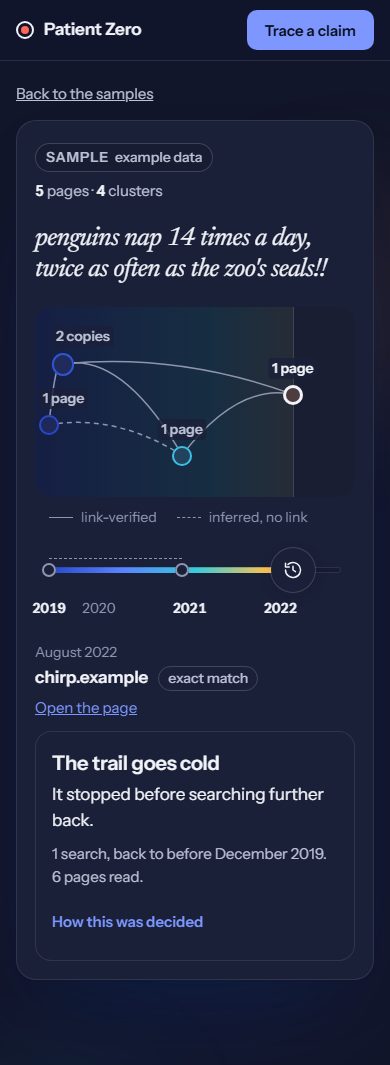
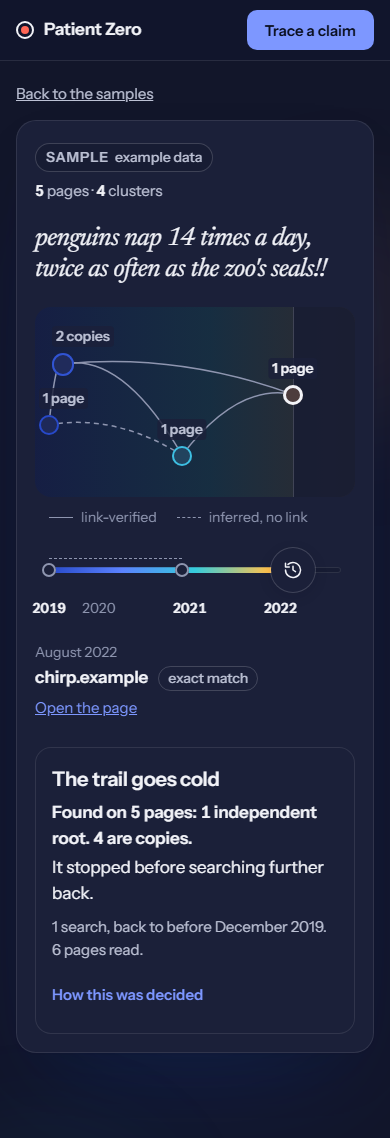
Lead the stop card with the independence count from pz/headline

diff --git a/apps/web/src/model/stopCard.ts b/apps/web/src/model/stopCard.ts
@@ -1,4 +1,5 @@
 import type { Trace } from "pz/schema";
+import { independenceLine } from "pz/headline";
 import { endingSentence } from "./ending.ts";
 
 // The six rows of the stop-state table (decide.ts), in plain words for the rule sheet. Checked in order; the first
@@ -37,6 +38,7 @@ const plural = (n: number, one: string, many: string) => `${n} ${n === 1 ? one :
 export type StopCard = {
   title: string;
   sentence: string;
+  count: string; // T94: pages, independent roots and copies, from pz/headline
   searched: string;
   ruleRow: Trace["decision"]["row"];
   rules: { row: Trace["decision"]["row"]; text: string; decided: boolean }[];
@@ -63,6 +65,7 @@ export function stopCard(trace: Trace): StopCard {
   return {
     title: TITLES[trace.decision.state],
     sentence: endingSentence(trace),
+    count: independenceLine(trace),
     searched,
     ruleRow: trace.decision.row,
     rules: RULES.map((r) => ({ ...r, decided: r.row === trace.decision.row })),

diff --git a/apps/web/src/model/stopCard.test.ts b/apps/web/src/model/stopCard.test.ts
@@ -44,13 +44,18 @@ describe("stopCard", () => {
   it("no card string carries a banned phrase, a dash, an id or a code", () => {
     for (const t of traces) {
       const card = stopCard(t);
-      const strings = [card.title, card.sentence, card.searched, ...card.rules.map((r) => r.text)];
+      const strings = [card.title, card.count, card.sentence, card.searched, ...card.rules.map((r) => r.text)];
       for (const s of strings) {
         expect(lintText(s)).toEqual([]);
         expect(s).not.toMatch(/_|row \d/);
         for (const n of t.nodes) expect(s).not.toContain(n.id);
       }
     }
+  });
+
+  it("leads with the independence count from pz/headline (T94)", () => {
+    expect(stopCard(byId("sample-origin")).count).toBe("Found on 3 pages: 1 independent root, 1 origin. 2 are copies.");
+    expect(stopCard(byId("sample-no-pages")).count).toBe("Found on no pages.");
   });
 
   it("the sentence and the tone come from the ending", () => {

diff --git a/apps/web/src/components/StopCard.tsx b/apps/web/src/components/StopCard.tsx
@@ -8,6 +8,7 @@ export function StopCard({ trace }: { trace: Trace }) {
   return (
     <section className={`stop-card ${card.tone}`} aria-label="How this trace ended">
       <h2 className="stop-title">{card.title}</h2>
+      <p className="stop-count">{card.count}</p>
       <p className="stop-sentence">{card.sentence}</p>
       {card.origin && (
         <blockquote className="origin-quote" cite={card.origin.url}>

diff --git a/apps/web/src/styles/trace.css b/apps/web/src/styles/trace.css
@@ -446,6 +446,14 @@
   color: var(--caution);
 }
 
+.stop-count {
+  margin: 6px 0 0;
+  color: var(--ink);
+  font-size: 17px;
+  font-weight: 600;
+  font-variant-numeric: tabular-nums;
+}
+
 .stop-sentence {
   margin: 4px 0 0;
   color: var(--ink);
